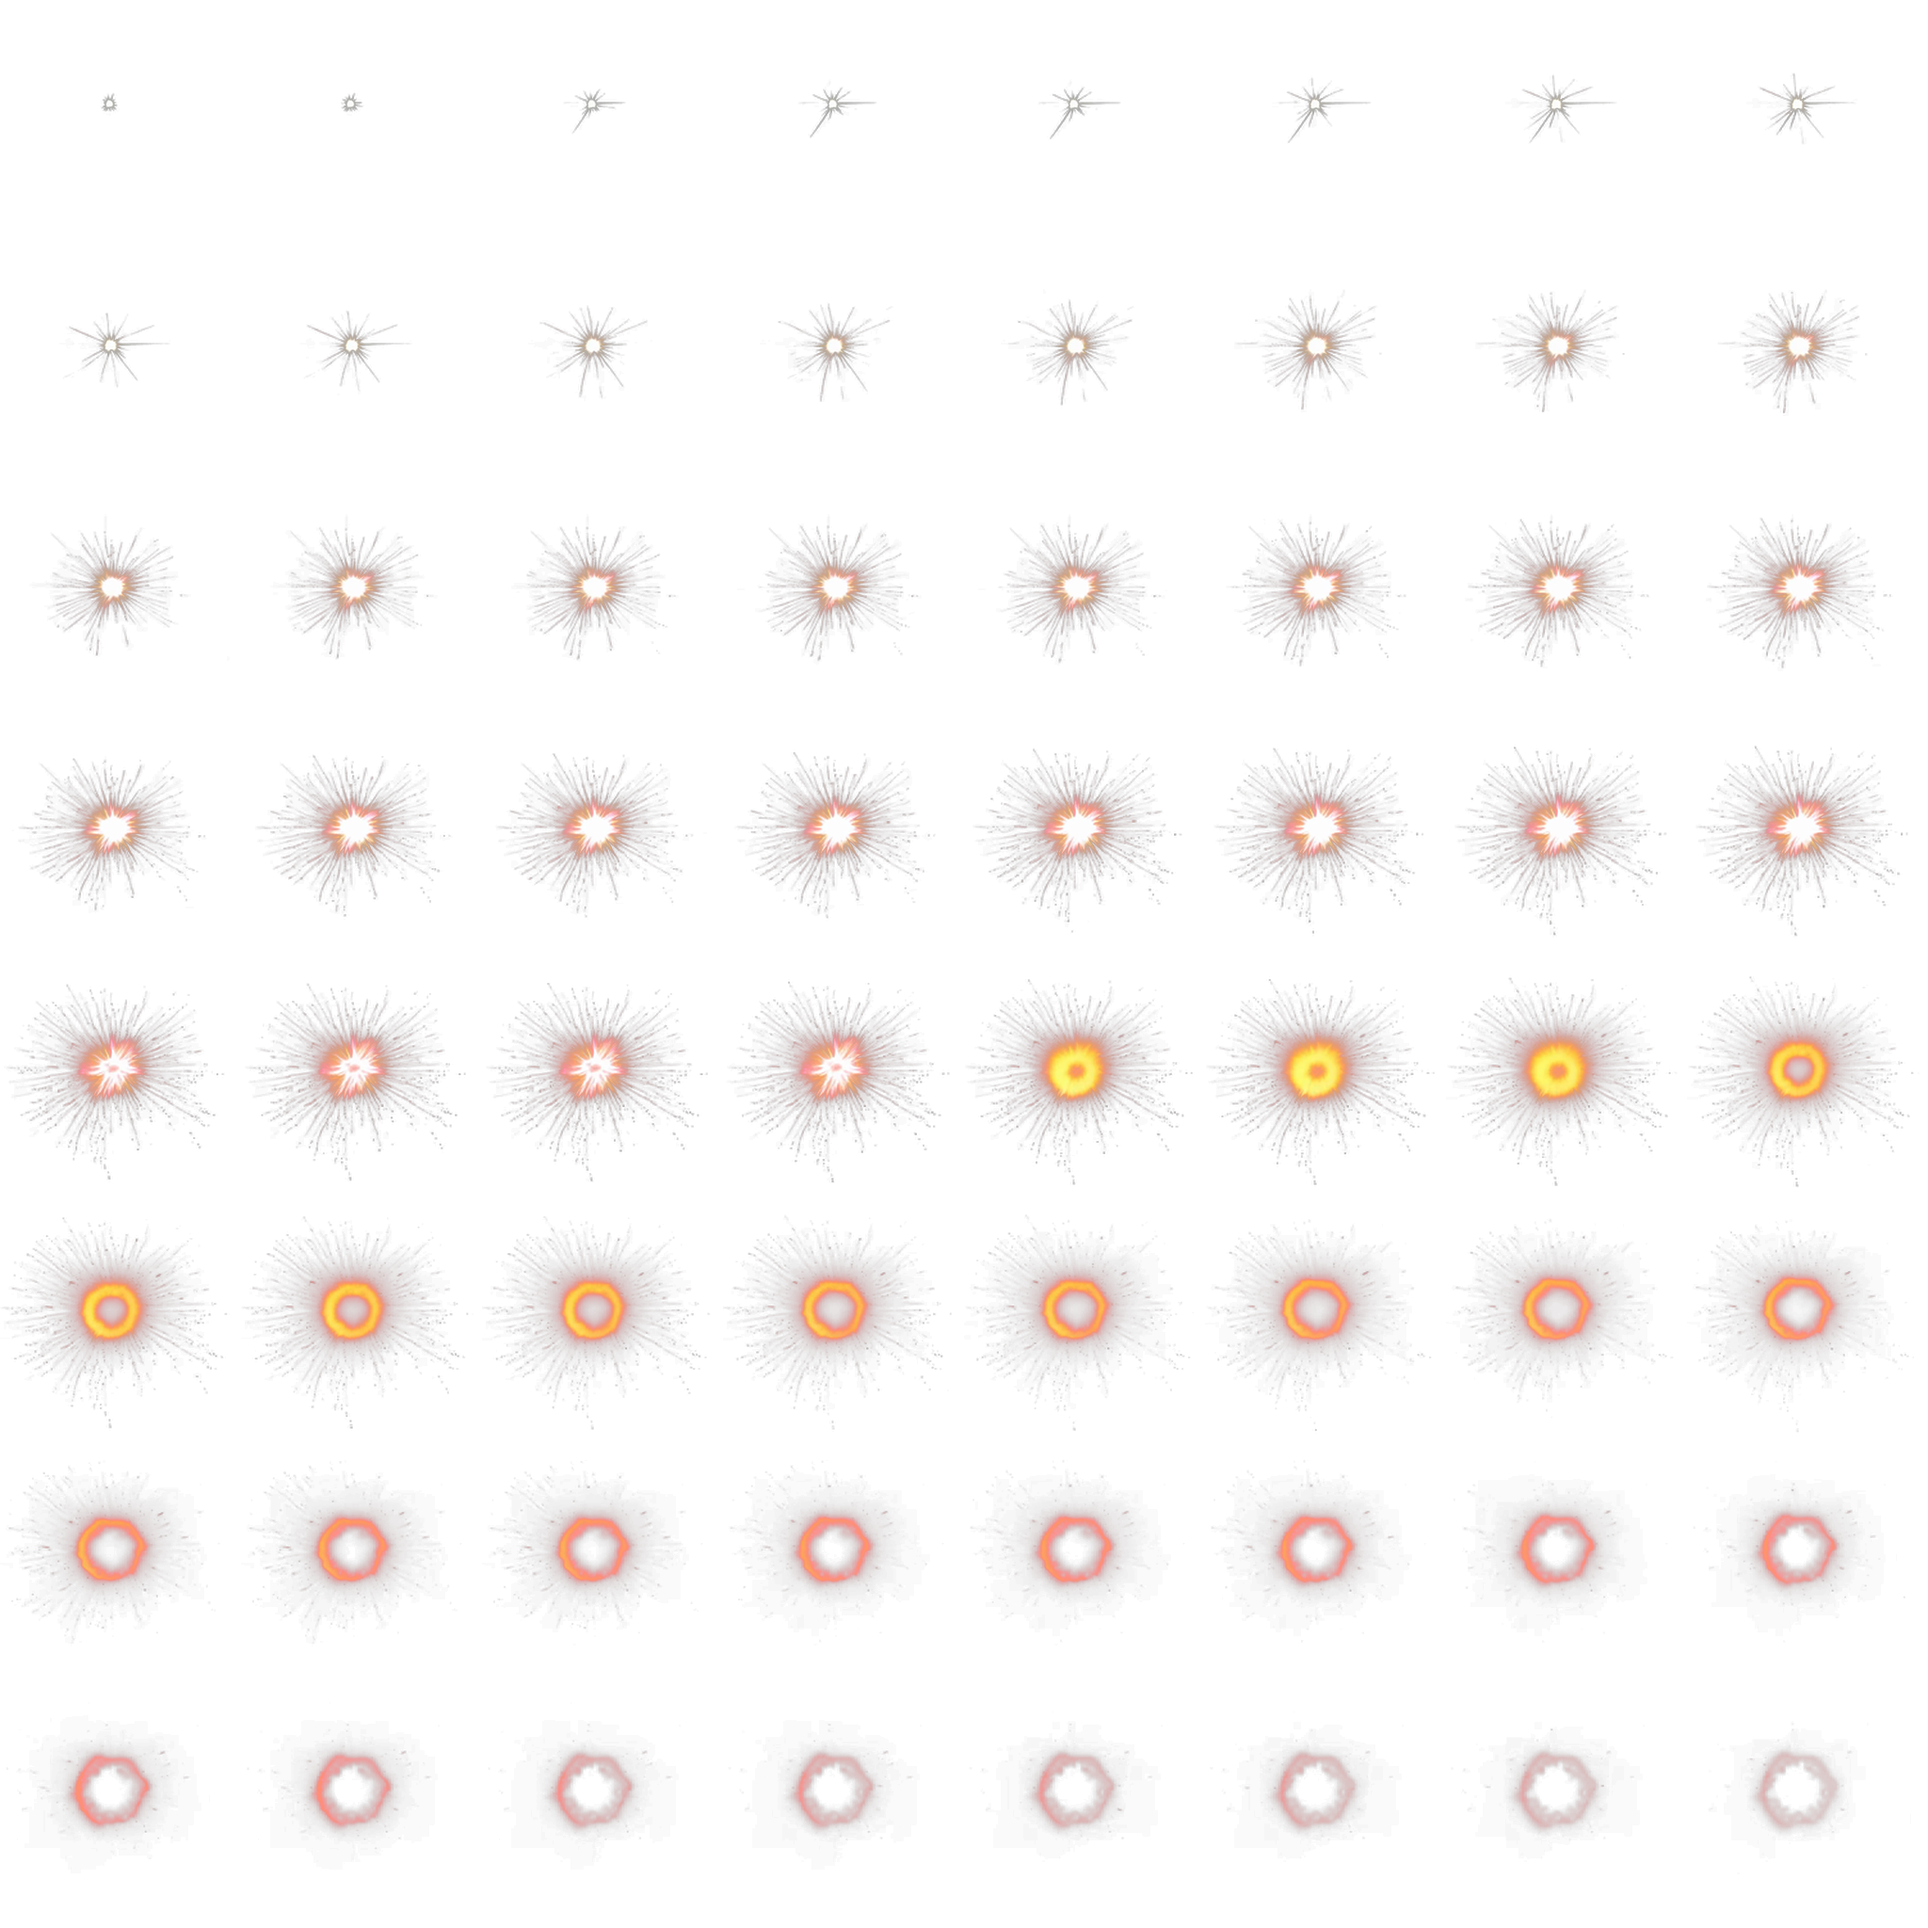
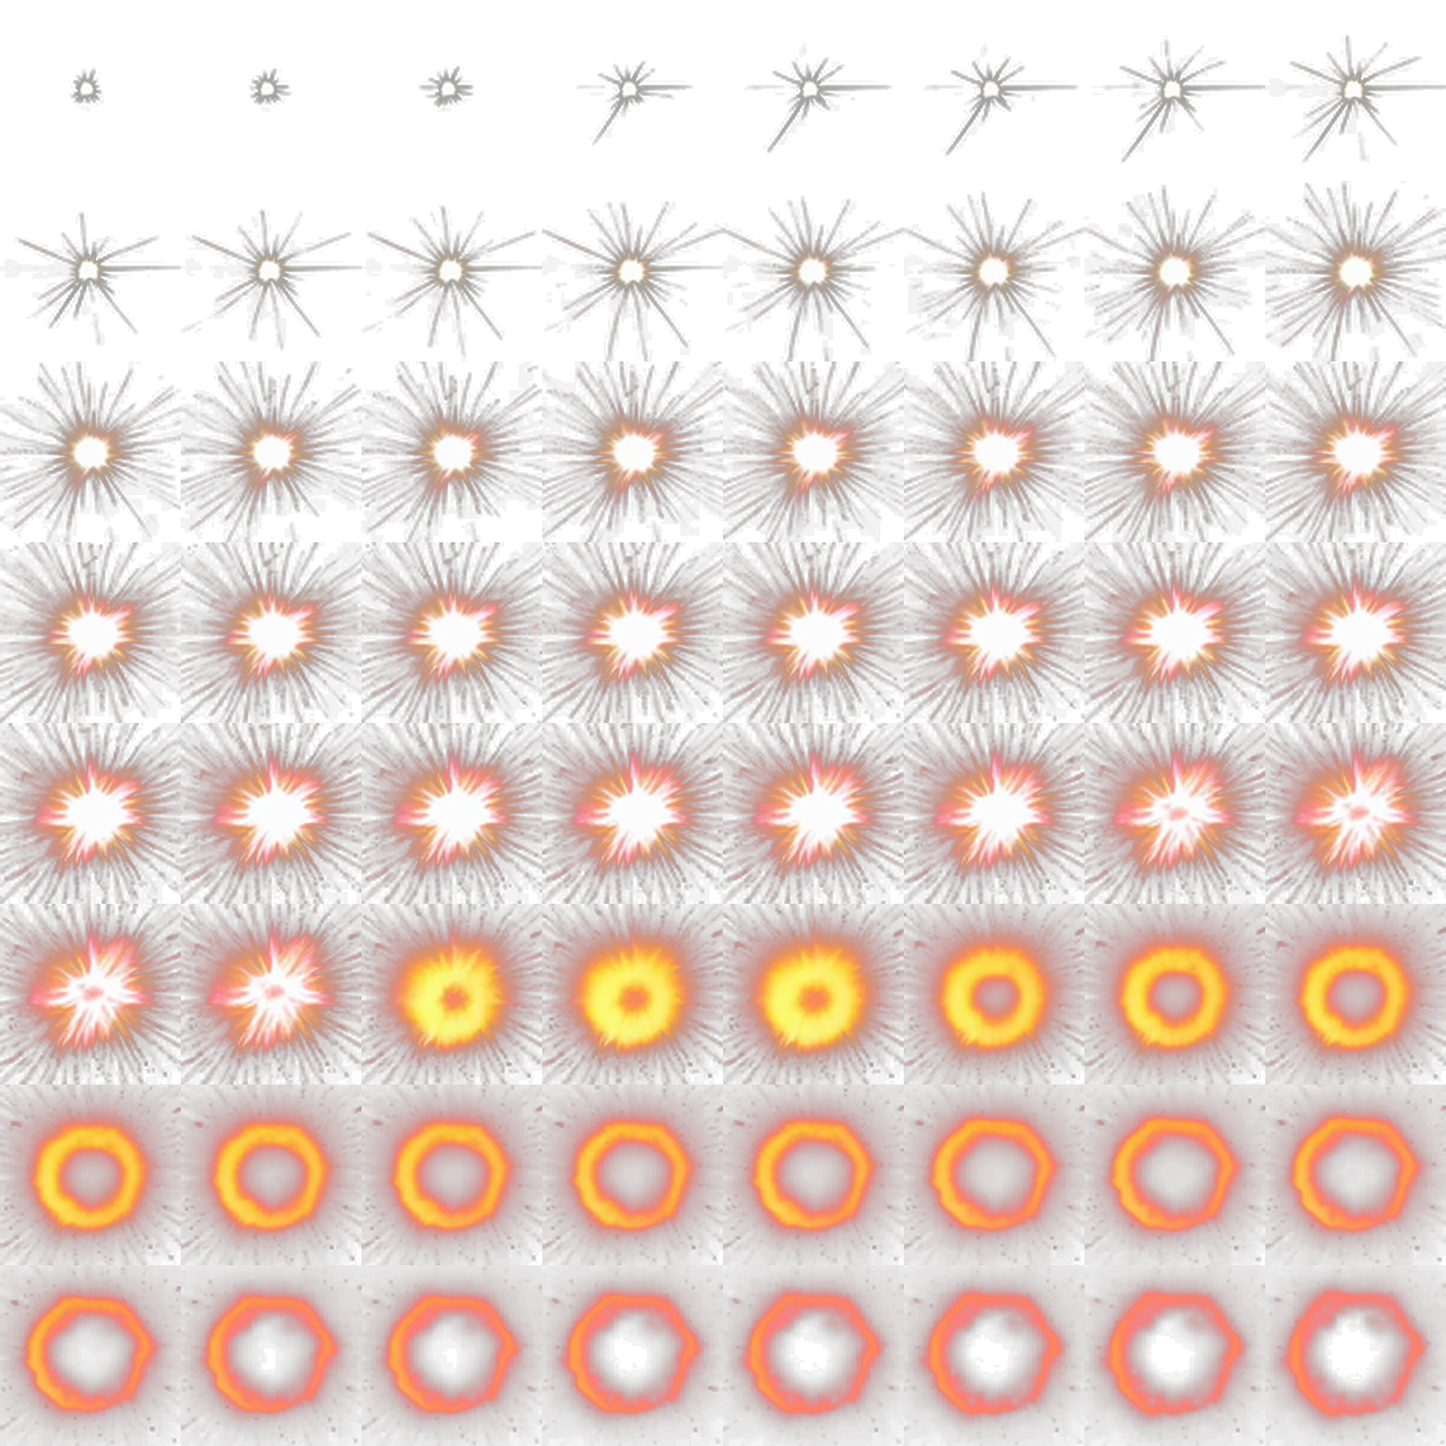
La planche d'explosion etait faite de 82 pour cent de vide
Mesure image par image du plan genere : le feu vif n'occupe jamais plus de
18 % de la largeur du cadre, et les onze dernieres images sont entierement
noires. Le decoupage suivait l'etendue des etincelles diffuses, pas celle du
souffle : chaque case de la planche contenait donc un petit point de feu
perdu au milieu du noir.

Aucun reglage de taille ne pouvait rattraper cela — agrandir le sprite
agrandissait surtout le vide. C'est la raison de fond pour laquelle
l'explosion paraissait inchangee malgre les corrections successives.

La planche est refaite : recadrage sur le feu vif seul, images vides ecartees,
canal alpha tire de la luminance. Le souffle remplit desormais 68 % de sa
case au lieu de 18 %, soit trois fois plus de matiere a taille egale.

Ajout au systeme : `spawn(..., filmeSeul)` n'affiche que le souffle filme,
sans le feu du code autour. Quand on doute de ce qu'on regarde, c'est le seul
moyen d'en avoir le coeur net.

Claude-Session: https://claude.ai/code/session_01N4s5qGdCWQQTGDM9NBbZcV

diff --git a/maps/world-explosion.js b/maps/world-explosion.js
@@ -28,7 +28,9 @@ const PLANCHE_DUREE = 1.05;             // duree de lecture, en secondes
 // unites de large quand la boule de feu du code en faisait 17 : il etait
 // integralement noye dedans, et l'explosion paraissait inchangee. Il doit
 // dominer, c'est lui le sujet.
-const PLANCHE_TAILLE = 11;
+// Depuis que la planche est recadree serre, le feu remplit sa case au lieu de
+// flotter dans du vide : a contenu egal, il paraissait trois fois plus petit.
+const PLANCHE_TAILLE = 7;
 
 let plancheTexture = null;
 // Chaque emplacement lit sa propre case de la planche, il lui faut donc sa
@@ -253,7 +255,12 @@ export function createExplosionSystem({ scene, camera, onSound }) {
    * @param {number|null} tint teinte de la matiere qui brule (chasseur ennemi
    *   rouge, beton gris…). `null` conserve la palette de feu par defaut.
    */
-  function spawn(position, scale = 1, groundY = null, tint = null) {
+  /**
+   * @param {boolean} filmeSeul n'affiche QUE le souffle filme. Sert a lever
+   *   toute ambiguite quand on doute de ce qu'on regarde : si rien
+   *   n'apparait, la video ne s'affiche pas, et c'est definitif.
+   */
+  function spawn(position, scale = 1, groundY = null, tint = null, filmeSeul = false) {
     const slot = pickSlot();
     const tinted = tint !== null && tint !== undefined;
     if (tinted) tintColor.set(tint);
@@ -371,6 +378,18 @@ export function createExplosionSystem({ scene, camera, onSound }) {
     const proximity = Math.max(0, 1 - distance / (260 * scale));
     shake = Math.max(shake, proximity * scale * 1.7);
 
+    slot.filmeSeul = filmeSeul;
+    if (filmeSeul) {
+      slot.flash.visible = false;
+      slot.fireball.forEach(mesh => { mesh.visible = false; });
+      slot.shockwave.visible = false;
+      slot.groundRing.visible = false;
+      slot.debris.visible = false;
+      slot.sparks.visible = false;
+      slot.smoke.visible = false;
+      slot.light.visible = false;
+    }
+
     onSound?.(scale);
     return slot;
   }
@@ -410,6 +429,8 @@ export function createExplosionSystem({ scene, camera, onSound }) {
         slot.souffle.material.opacity = avanceSouffle < .66 ? 1 : 1 - (avanceSouffle - .66) / .34;
         slot.souffle.visible = true;
       }
+
+      if (slot.filmeSeul) continue;   // souffle filme seul : rien d'autre a animer
 
       // — Flash : tres court, il ouvre l'explosion.
       const flashProgress = Math.min(1, slot.life / .16);

diff --git a/maps/world-game.js b/maps/world-game.js
@@ -8,7 +8,7 @@ import { WORLD_MAPS, PLAYER_MODES, getWorld, getMode, getPortalRoute } from './w
 import { buildWorld, animateWorld } from './world-builder.js?v=biseau-net-20260730';
 import { createWorldCombat } from './world-combat.js?v=chasseur-unique-20260907';
 import { createTargetRange } from './world-targets.js?v=biseau-net-20260730';
-import { createExplosionSystem } from './world-explosion.js?v=souffle-alpha-20260908';
+import { createExplosionSystem } from './world-explosion.js?v=planche-serree-20260908';
 import { queryHit, collisionStats } from './world-collision.js?v=biseau-net-20260730';
 import { addBoxFromCenter } from './world-collision.js?v=biseau-net-20260730';
 import { applyEdits, registerAddedCollisions } from './custom-map-format.js?v=biseau-net-20260730';
@@ -1263,7 +1263,7 @@ async function startWorld() {
       if (!essaiExplosionArme) {
         essaiExplosionArme = true;
         const cible = player.position.clone().addScaledVector(forward, 95);
-        explosions.spawn(cible, 1.7, built.getHeight(cible.x, cible.z));
+        explosions.spawn(cible, 2.2, built.getHeight(cible.x, cible.z));
       }
     } else essaiExplosionArme = false;
 

diff --git a/air-combat.js b/air-combat.js
@@ -34,7 +34,7 @@
   // en cinq couches, onde de choc, anneau au sol, debris, etincelles, fumee.
   // Il n'y a aucune raison d'en avoir deux : la ville prend le meme.
   let explosionFactory=null, explosionSystem=null;
-  import('./maps/world-explosion.js?v=souffle-alpha-20260908')
+  import('./maps/world-explosion.js?v=planche-serree-20260908')
     .then(module=>{explosionFactory=module.createExplosionSystem;})
     .catch(error=>console.warn('[air-combat] module explosions indisponible, repli sur les particules',error));
 

diff --git a/mondes.html b/mondes.html
@@ -512,6 +512,6 @@
   <script src="./background-ambience.js?v=background-20260719"></script>
   <script src="./fighter-cannon-audio.js?v=single-shot-20260719"></script>
   <script src="./fighter-missile-audio.js?v=impact-sync-20260719"></script>
-  <script type="module" src="./maps/world-game.js?v=souffle-alpha-20260908"></script>
+  <script type="module" src="./maps/world-game.js?v=planche-serree-20260908"></script>
 </body>
 </html>

diff --git a/maps/world-combat.js b/maps/world-combat.js
@@ -1,6 +1,6 @@
 import * as THREE from 'three';
 import { createEnemyFighterModel, preloadEnemyFighterModel } from './enemy-fighter-model.js?v=poursuite-20260907';
-import { createExplosionSystem } from './world-explosion.js?v=souffle-alpha-20260908';
+import { createExplosionSystem } from './world-explosion.js?v=planche-serree-20260908';
 
 preloadEnemyFighterModel().catch(() => {});
 
